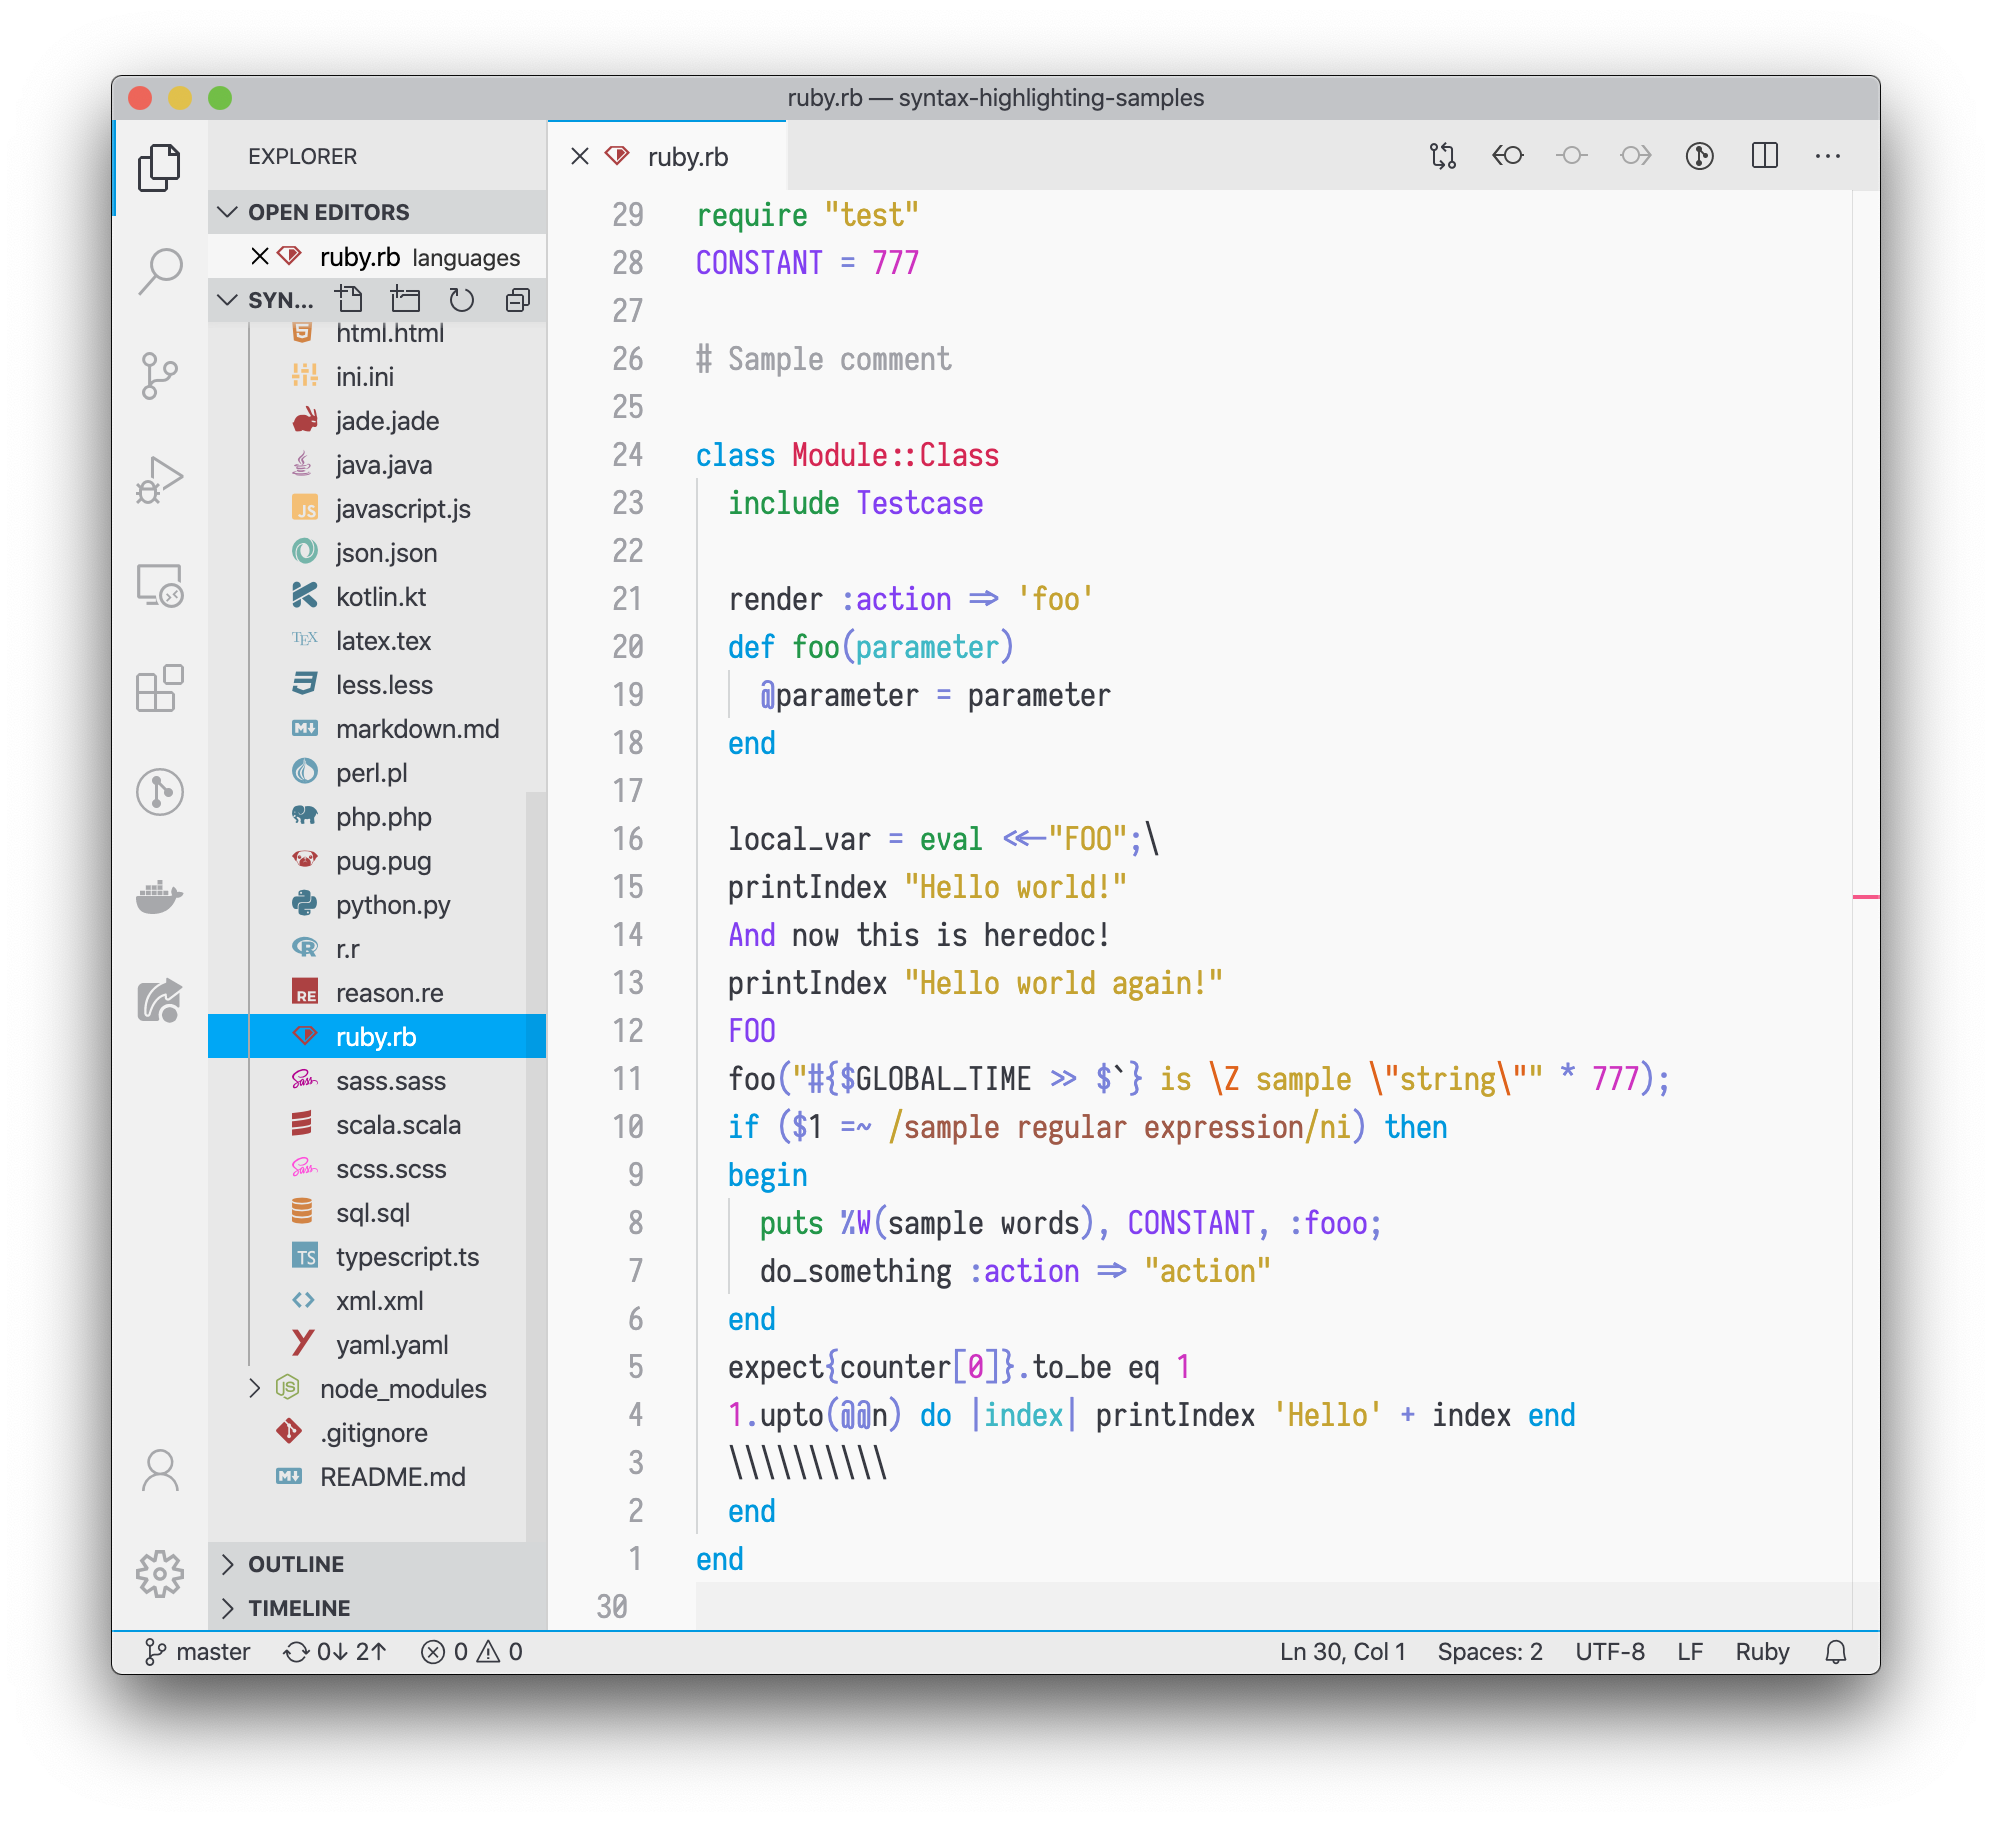
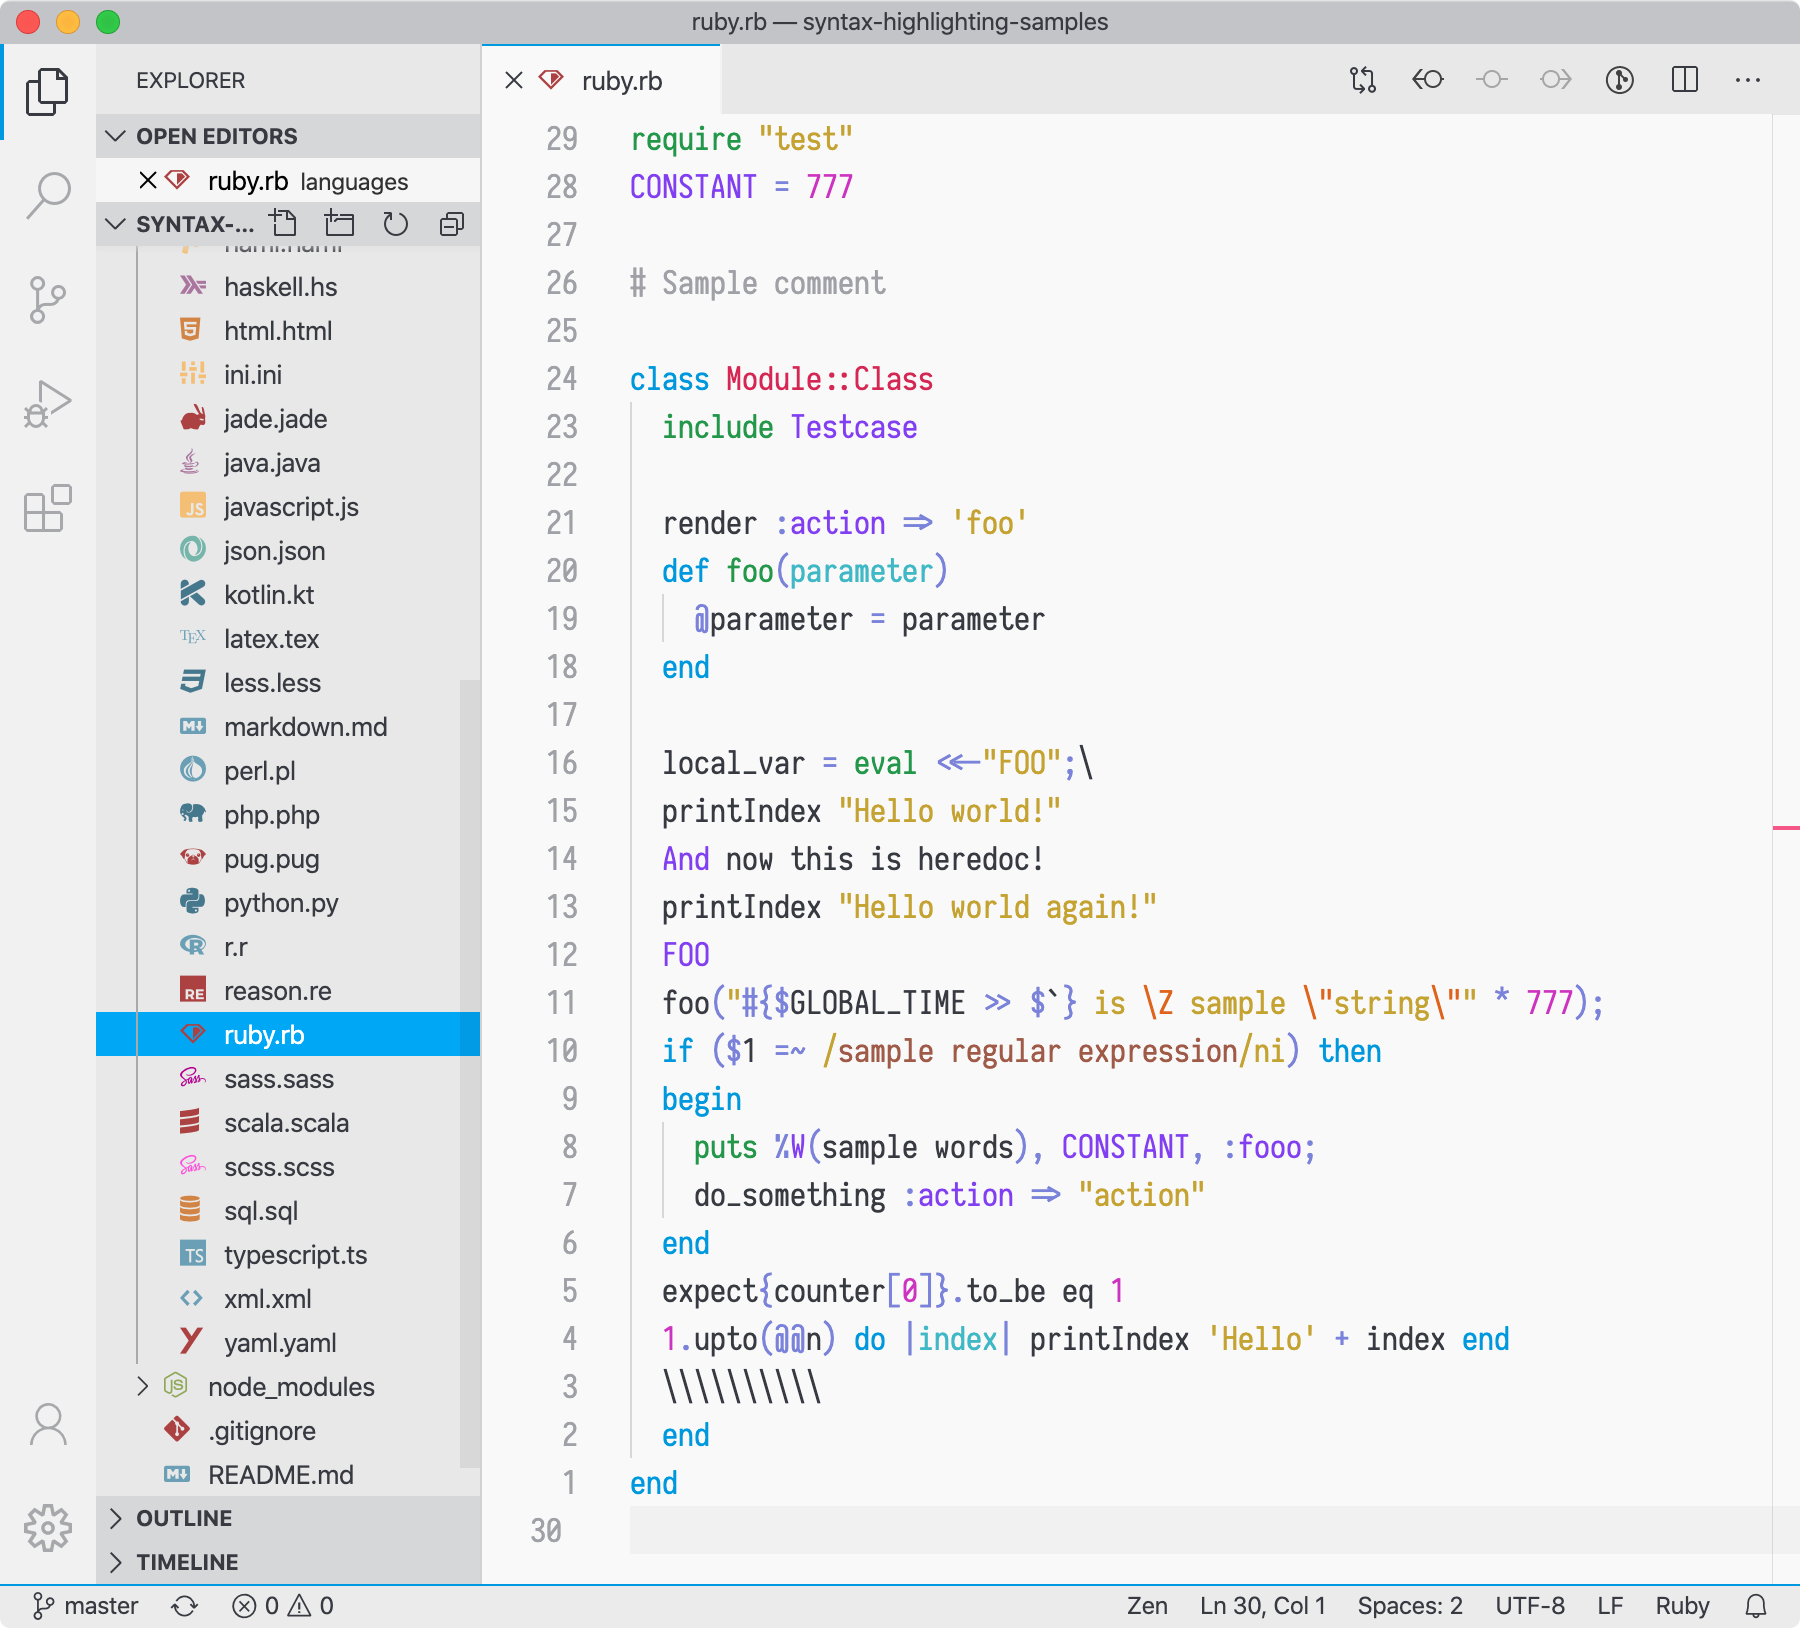
Enable semantic highlighting

Changed region(s): [[0.0, 0.0, 1.0, 1.0], [0.7156, 0.7678, 0.84, 0.8292]]

diff --git a/CHANGELOG.md b/CHANGELOG.md
@@ -2,6 +2,10 @@
 
 ## [unreleased]
 
+## [3.1.0] - 2020-03-30
+
+- Enable semantic highlighting
+
 ## [3.0.3] - 2020-03-30
 
 - Fix php doc highlighting
@@ -177,7 +181,7 @@
 - Fix Javascript object property key color
 - Fix punctuations
 
-[unreleased]: https://github.com/uloco/theme-bluloco-light/compare/v3.0.3...HEAD
+[unreleased]: https://github.com/uloco/theme-bluloco-light/compare/v3.1.0...HEAD
 [1.2.1]: https://github.com/uloco/theme-bluloco-light/compare/v1.2.0...v1.2.1
 [2.0.0]: https://github.com/uloco/theme-bluloco-light/compare/v1.2.1...v2.0.0
 [2.0.1]: https://github.com/uloco/theme-bluloco-light/compare/v2.0.0...v2.0.1
@@ -207,4 +211,5 @@
 [2.9.3]: https://github.com/uloco/theme-bluloco-light/compare/v2.9.2...v2.9.3
 [3.0.0]: https://github.com/uloco/theme-bluloco-light/compare/v2.9.3...v3.0.0
 [3.0.1]: https://github.com/uloco/theme-bluloco-light/compare/v3.0.0...v3.0.1
-[3.0.3]: https://github.com/uloco/theme-bluloco-light/compare/v3.0.3...v3.0.3
+[3.0.3]: https://github.com/uloco/theme-bluloco-light/compare/v3.0.1...v3.0.3
+[3.1.0]: https://github.com/uloco/theme-bluloco-light/compare/v3.0.3...v3.1.0
